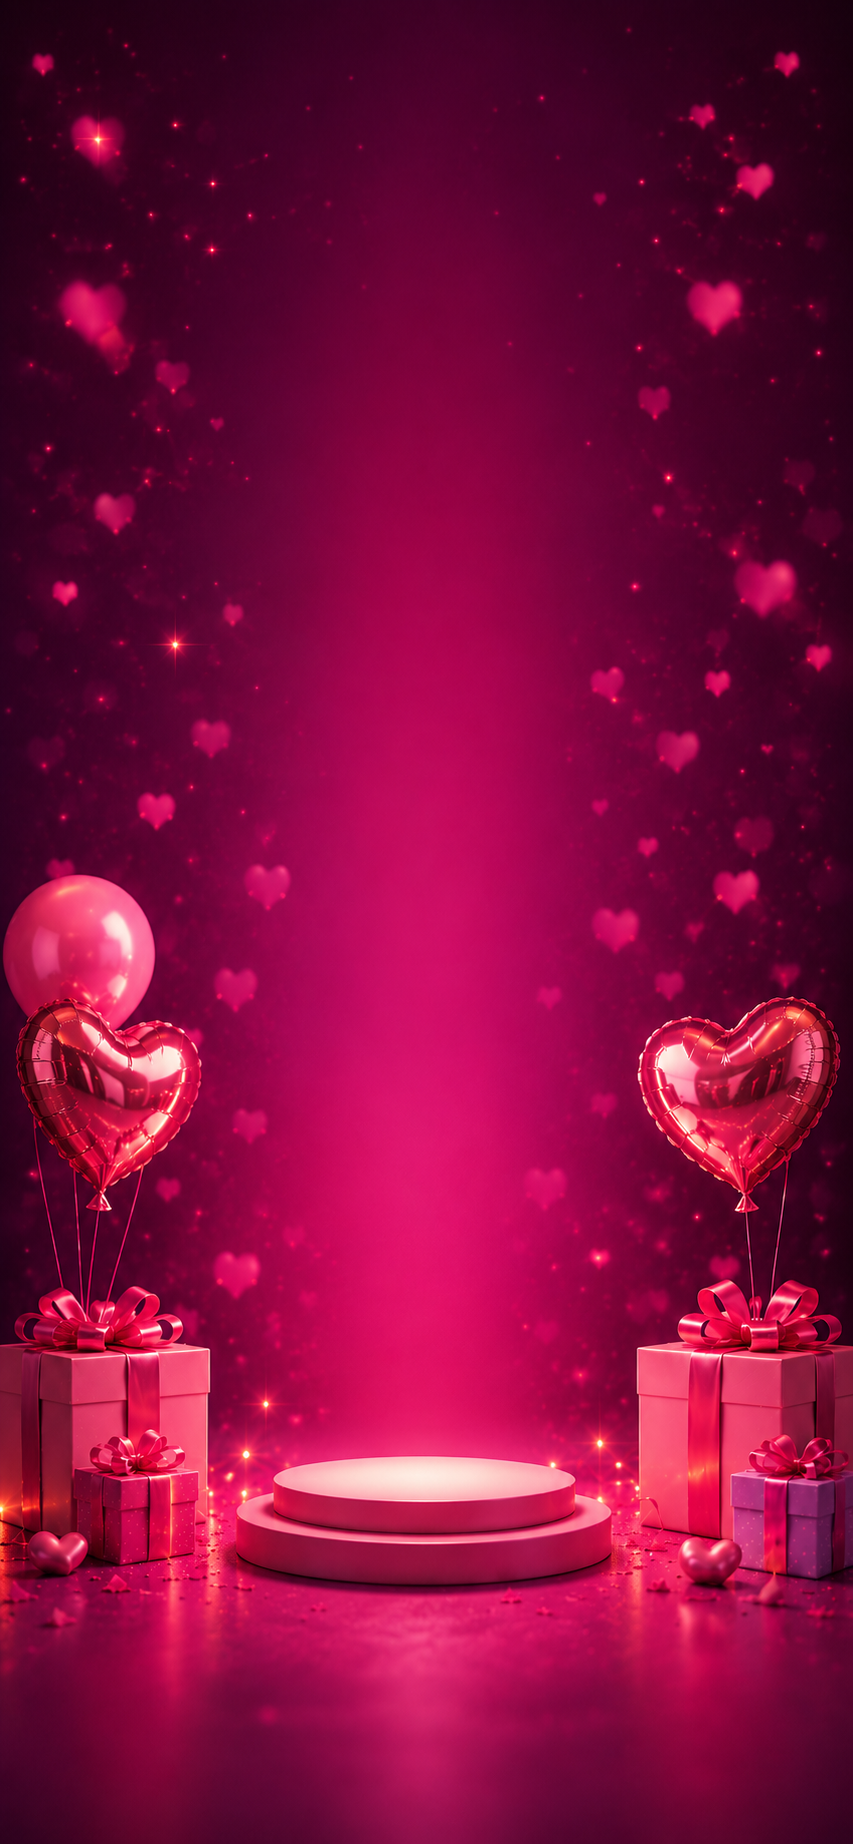
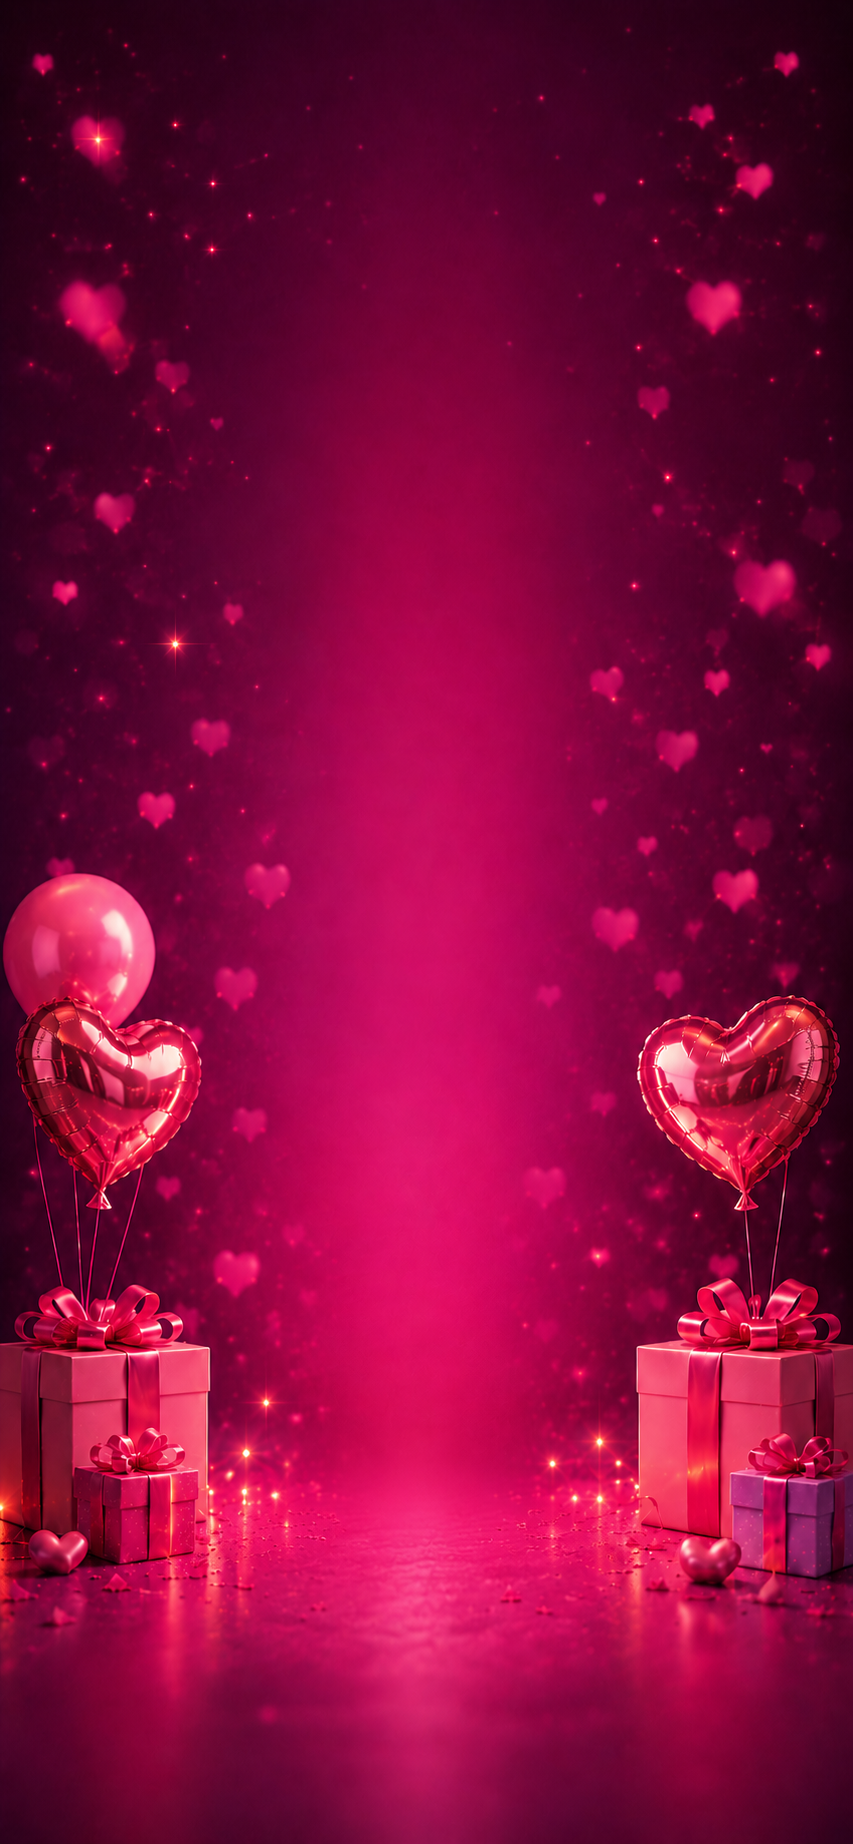
update v2

Changed region(s): [[0.0, 0.5255, 1.0, 0.8964], [0.0, 0.5255, 0.2438, 0.8037]]

diff --git a/app/(client)/aivuong/page.tsx b/app/(client)/aivuong/page.tsx
@@ -6,7 +6,7 @@ import ChucMungSN from "@/components/chucmung"
 
 const Hello = () =>{
     return (
-        <div className="w-screen h-screen bg-cover bg-center lg:bg-cover lg:bg-center bg-[url('/BG2Mobi.png')] lg:bg-[url('/bg.gif')]">
+        <div className="w-screen h-screen bg-cover bg-center lg:bg-cover lg:bg-center bg-[url('/mobile.png')] lg:bg-[url('/bg.gif')]">
             <div className="">
                 <HeartRandom />
             </div>

diff --git a/app/(client)/page.tsx b/app/(client)/page.tsx
@@ -37,7 +37,7 @@ import TextNeon from "@/components/text/textNeon";
 
 const TrangChu = () => {
     return (
-        <main className="relative min-h-[100dvh] w-full overflow-hidden bg-[url('/BgMobi.png')] bg-cover bg-center lg:bg-[url('/bg.2.png')]">
+        <main className="relative min-h-[100dvh] w-full overflow-hidden bg-[url('/mobile.png')] bg-cover bg-center lg:bg-[url('/bg.2.png')]">
             <HeartRandom />
 
             <div className="absolute z-20 left-1/2 top-6 w-[86%] max-w-[360px] -translate-x-1/2 lg:left-[2%] lg:top-[2%] lg:w-auto lg:max-w-none lg:translate-x-0">

diff --git a/app/layout.tsx b/app/layout.tsx
@@ -29,7 +29,7 @@ export default function RootLayout({
       lang="en"
       className={`${geistSans.variable} ${geistMono.variable} h-full antialiased`}
     >
-      <body className="min-h-full flex flex-col">
+      <body suppressHydrationWarning className="min-h-full flex flex-col">
         <AppProvider>
           {children}
           <div className="absolute bottom-4 right-4">